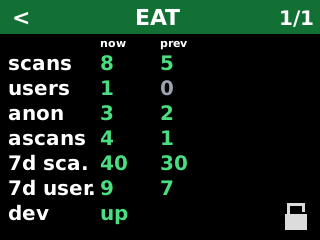
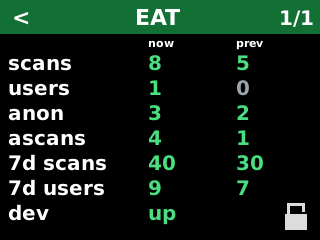
Show the magic packet on the home screen after Wake GPU.
The backup page stayed on the green button, so a confirm now returns home with the message. Eateria today and yesterday sit further apart.

diff --git a/rpi_monitoring/display/paint.go b/rpi_monitoring/display/paint.go
@@ -114,17 +114,21 @@ func (a *App) recording() bool {
 
 func (a *App) paintHome(ink color.Color) {
 	fill(a.Img, image.Rect(0, 0, W, statusH), color.RGBA{0, 0, 0, 255})
-	a.put(a.F.sans14, a.Now.Format("15:04"), clockRect(), ink, false)
-	sum, sumCol := a.statusLine()
 	if a.Toast != "" {
-		sum = a.Toast
-		sumCol = ink
+		r := image.Rect(4, 0, W-4, statusH)
+		if a.recording() {
+			r.Max.X = recRect().Min.X - 4
+		}
+		a.put(a.F.sans14, a.Toast, r, ink, true)
+	} else {
+		a.put(a.F.sans14, a.Now.Format("15:04"), clockRect(), ink, false)
+		sum, sumCol := a.statusLine()
+		a.put(a.F.sans14, sum, statusSummaryRect(), sumCol, true)
 	}
-	a.put(a.F.sans14, sum, statusSummaryRect(), sumCol, true)
 	if a.recording() {
 		a.put(a.F.sans14, "REC", recRect(), color.RGBA{255, 80, 80, 255}, true)
 	}
-	if a.Snap != nil && a.Snap.TempOut != "" {
+	if a.Toast == "" && a.Snap != nil && a.Snap.TempOut != "" {
 		tc := ink
 		if a.nightLook() {
 			tc = nightInk()
@@ -296,8 +300,8 @@ func (a *App) paintDetail(ink color.Color, headerOnly bool) {
 	y := headerH + 2
 	if dual {
 		hh := faceH(a.F.sans11)
-		a.put(a.F.sans11, "now", image.Rect(100, y, 156, y+hh), white, false)
-		a.put(a.F.sans11, "prev", image.Rect(160, y, right, y+hh), white, false)
+		a.put(a.F.sans11, "now", image.Rect(dualNowX0, y, dualNowX1, y+hh), white, false)
+		a.put(a.F.sans11, "prev", image.Rect(dualPrevX0, y, right, y+hh), white, false)
 		y += hh + 1
 	}
 	n := 0
@@ -332,10 +336,10 @@ func (a *App) paintMetricRow(face font.Face, row Row, y, pitch, right int, dual 
 		a.put(face, row.Value, image.Rect(122, y, x1, y+pitch), metricInk(row.State), false)
 		return
 	}
-	a.put(face, row.Label, image.Rect(8, y, 96, y+pitch), white, false)
-	a.put(face, row.Value, image.Rect(100, y, 156, y+pitch), metricInk(row.State), false)
-	if row.Value2 != "" && 160 < x1 {
-		a.put(face, row.Value2, image.Rect(160, y, x1, y+pitch), metricInk(row.State2), false)
+	a.put(face, row.Label, image.Rect(8, y, dualLabelX1, y+pitch), white, false)
+	a.put(face, row.Value, image.Rect(dualNowX0, y, dualNowX1, y+pitch), metricInk(row.State), false)
+	if row.Value2 != "" && dualPrevX0 < x1 {
+		a.put(face, row.Value2, image.Rect(dualPrevX0, y, x1, y+pitch), metricInk(row.State2), false)
 	}
 }
 

diff --git a/rpi_monitoring/display/layout.go b/rpi_monitoring/display/layout.go
@@ -65,6 +65,14 @@ func actionButtons(n int) []image.Rectangle {
 
 const headerH = 34
 
+// Eateria today / yesterday columns. The gaps are the empty space between them.
+const (
+	dualLabelX1 = 112
+	dualNowX0   = 148
+	dualNowX1   = 196
+	dualPrevX0  = 236
+)
+
 func backRect() image.Rectangle  { return image.Rect(2, 2, 40, headerH) }
 func titleRect() image.Rectangle { return image.Rect(44, 2, W-48, headerH) }
 func pageRect() image.Rectangle  { return image.Rect(W-42, 2, W-4, headerH) }

diff --git a/rpi_monitoring/display/journeys_test.go b/rpi_monitoring/display/journeys_test.go
@@ -117,13 +117,14 @@ func TestJourneys(t *testing.T) {
 	save("J7_confirm", a)
 	a.advance(time.Second)
 	tap(a, "ok")
-	if a.Toast == "" {
-		t.Fatal("J7 no toast")
+	if a.Screen != scrHome || a.Toast != "magic packet sent" {
+		t.Fatalf("J7 home %s toast %q", a.Screen, a.Toast)
 	}
 	save("J7_toast", a)
 
 	// J8 cancel
 	a.Toast = ""
+	tap(a, "tile:5")
 	tap(a, "act:wake")
 	tap(a, "cancel")
 	if a.Screen != scrDetail {

diff --git a/rpi_monitoring/display/app.go b/rpi_monitoring/display/app.go
@@ -439,9 +439,14 @@ func (a *App) confirmTap(id string) {
 		if a.Action != nil {
 			id = a.Action.ID
 		}
-		a.toast("Sending...")
 		a.Action = nil
-		a.Screen = scrDetail
+		if id == "wake" {
+			a.goHome()
+			a.toast("magic packet sent")
+		} else {
+			a.toast("Sending...")
+			a.Screen = scrDetail
+		}
 		if id != "" && a.Post != nil {
 			go a.Post(id)
 		}

diff --git a/rpi_monitoring/display/main.go b/rpi_monitoring/display/main.go
@@ -67,6 +67,9 @@ func runDevice(url string, refresh time.Duration) {
 	a.ActionURL = actionURL(url)
 	a.Post = func(id string) {
 		msg := postAction(a.ActionURL, id)
+		if id == "wake" && msg == "sent" {
+			return
+		}
 		select {
 		case a.Notes <- msg:
 		default:
